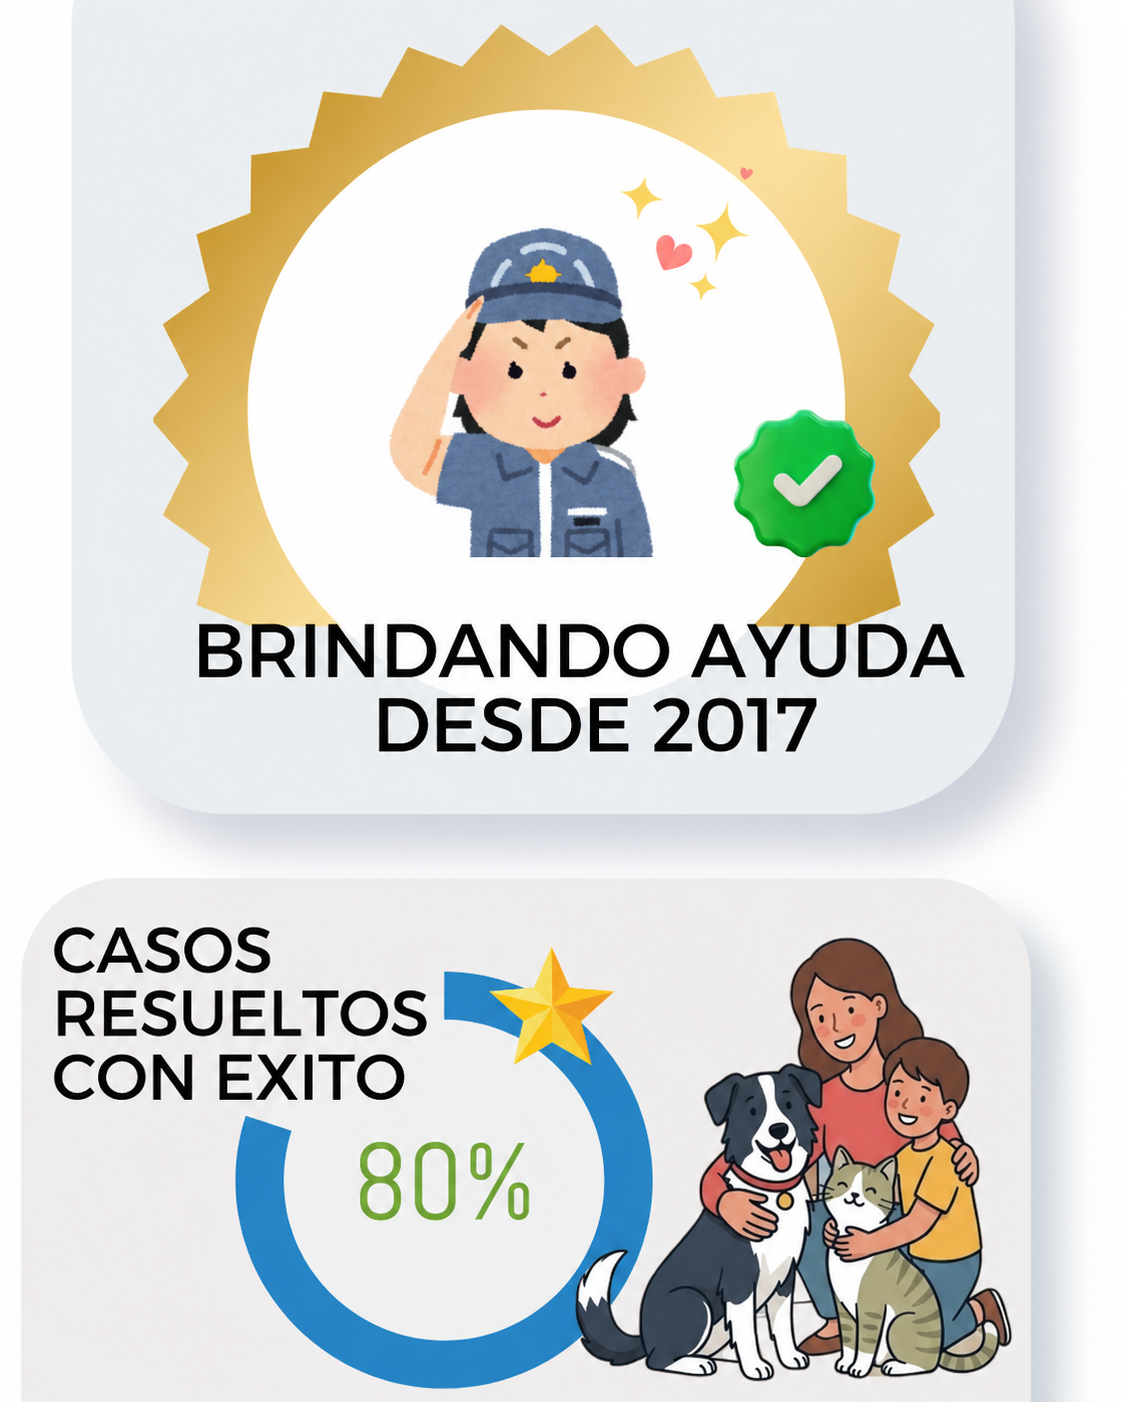
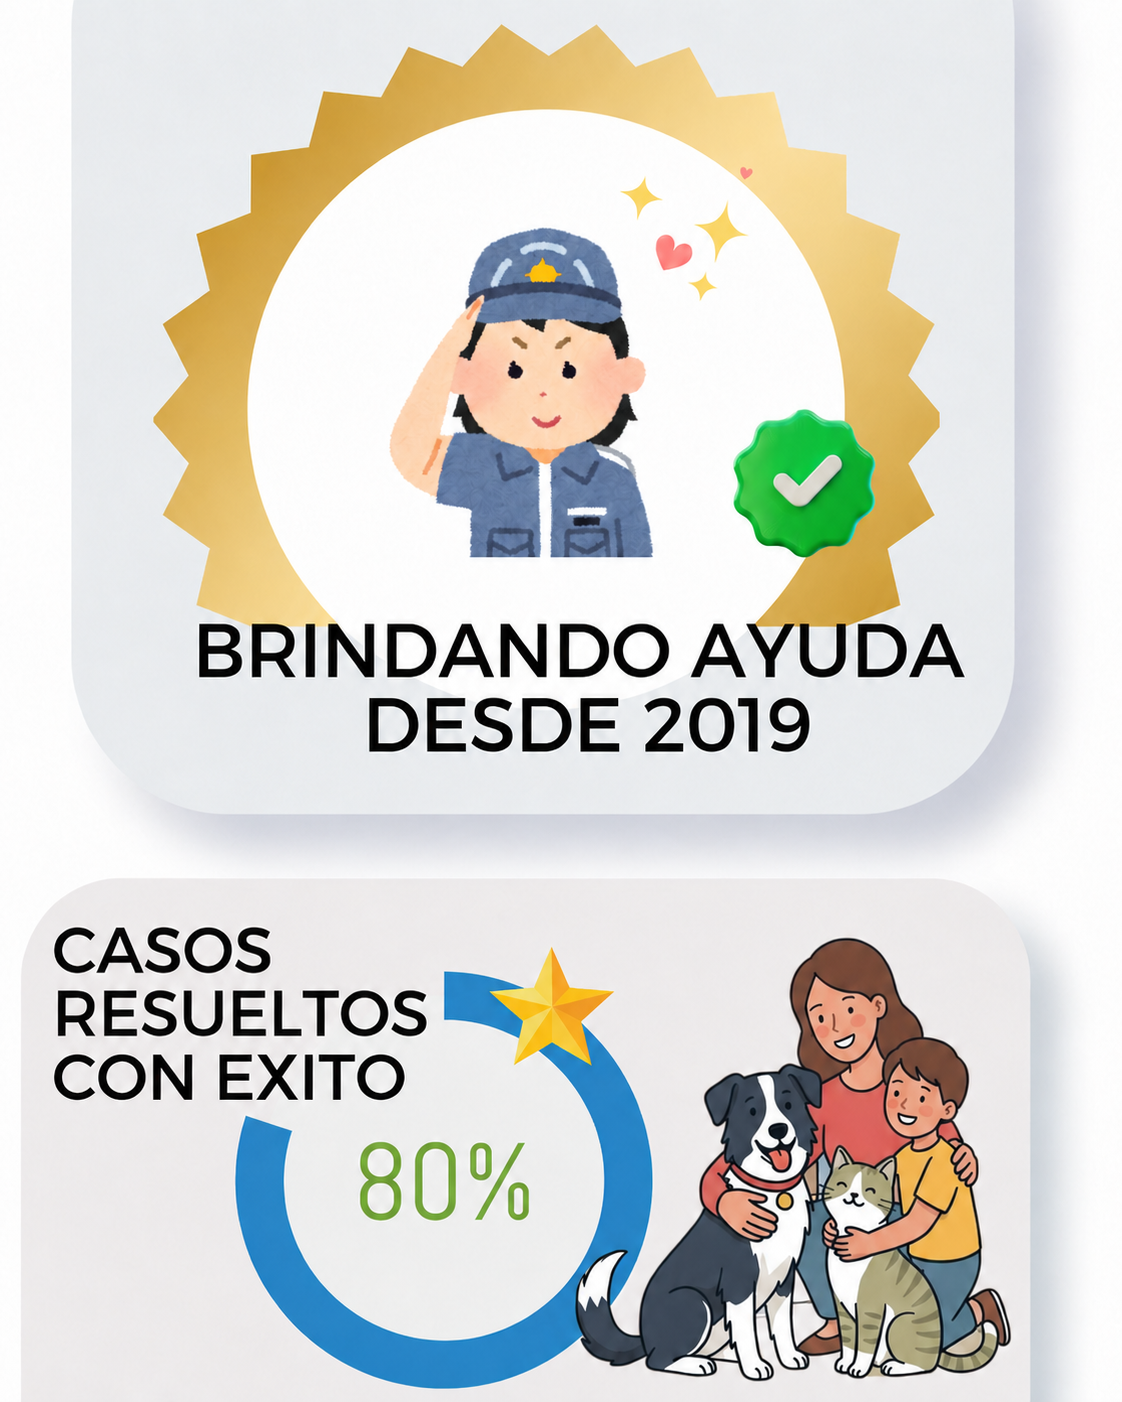
[ADD] testimoial

diff --git a/frontend/src/features/landing/components/landingPage/FrecuentlyAsked.tsx b/frontend/src/features/landing/components/landingPage/FrecuentlyAsked.tsx
@@ -6,17 +6,32 @@ const faqs = [
   {
     question: '¿Cómo trabajamos?',
     answer:
-      'Recopilamos la información de tu mascota y utilizamos herramientas para ayudar a encontrar coincidencias y difundirla.',
+      'Recopilamos los datos de tu mascota y la difundimos de forma masiva y estratégica en redes sociales, grupos comunitarios y nuestra red de contactos para maximizar las posibilidades de encontrarla.',
   },
   {
     question: '¿Por qué cobramos?',
     answer:
-      'El costo ayuda a mantener la plataforma, mejorar la visibilidad de las publicaciones y optimizar la búsqueda.',
+      'Invertimos en publicidad pagada, alcance masivo y herramientas profesionales para que tu búsqueda llegue a miles de personas. Un servicio serio requiere recursos reales.',
   },
   {
-    question: '¿Solo es para perros o gatos?',
+    question: '¿Funciona para perros, gatos u otras especies?',
     answer:
-      'No, puedes registrar cualquier tipo de mascota perdida o encontrada.',
+      'Sí. Adaptamos las estrategias dependiendo de la especie, personalidad de la mascota y circunstancias de la pérdida. También podemos ayudarte en casos de aves, conejos y otras mascotas, ajustando la difusión y las recomendaciones según cada situación.',
+  },
+  {
+    question: '¿En cuánto tiempo pueden encontrar a mi mascota?',
+    answer:
+      'Cada caso es diferente, por lo que no existe un tiempo exacto para localizar a una mascota. Algunas aparecen en pocas horas y otras pueden tomar más tiempo. Lo importante es actuar rápido, mantener una búsqueda constante y aumentar la difusión desde el inicio para mejorar las probabilidades de encontrarla.',
+  },
+  {
+    question: '¿En qué ciudades operan?',
+    answer:
+      'Nuestro servicio es completamente digital, por lo que podemos ayudarte en distintas ciudades y países. La difusión se adapta estratégicamente a la zona donde se perdió tu mascota mediante anuncios geolocalizados y redes sociales.',
+  },
+  {
+    question: '¿Pueden garantizar que encontrarán a mi mascota?',
+    answer:
+      'No podemos garantizar el hallazgo, ya que cada caso depende de muchos factores. Sin embargo, nuestras estrategias ayudan a aumentar considerablemente las probabilidades de localización.',
   },
 ];
 
@@ -30,7 +45,7 @@ const FrecuentlyAsked = () => {
   };
 
   return (
-    <section className="bg-white overflow-hidden py-8 lg:py-16 color-grey-border-top">
+    <section className="bg-white overflow-hidden py-8 lg:py-16 ">
       <div className="w-5/6 mx-auto">
         <div className="text-center mb-6 lg:mb-10">
           <Text as="h2" variant="h2" weight="medium">

diff --git a/frontend/src/features/landing/components/landingPage/HeroSection.tsx b/frontend/src/features/landing/components/landingPage/HeroSection.tsx
@@ -24,17 +24,15 @@ const HeroSection = () => {
               weight="medium"
               className="mb-4 lg:mb-6 w-5/6 md:w-4/5 lg:w-full mx-auto"
             >
-              Te ayudamos a buscar a tu mascota.
+              ¿Perdiste a tu mascota? Nosotros sabemos cómo encontrarla.
             </Text>
             <Text
               variant="body"
               weight="regular"
               className="mb-8 lg:mb-1 w-5/6 md:w-4/5 lg:w-full mx-auto"
             >
-              El tiempo es clave y cada minuto puede marcar la diferencia. No
-              tienes que pasar por esto solo. Vamos a difundir su búsqueda de
-              forma estratégica para aumentar las posibilidades de encontrarla
-              lo antes posible.
+              Cada minuto cuenta y no estás solo. Actuamos rápido y
+              estratégicamente para que puedas volver a abrazar a tu mascota.
             </Text>
 
             <div className="w-5/6 md:w-4/5 lg:w-full lg:max-w-4xl xl:max-w-5xl mx-auto flex flex-col py-4 gap-4 sm:flex-row items-center justify-center">

diff --git a/frontend/src/features/users/components/PetReportForm.tsx b/frontend/src/features/users/components/PetReportForm.tsx
@@ -19,7 +19,10 @@ export const PetReportForm: React.FC<PetReportFormProps> = ({
     usePetReportForm(initialData);
 
   return (
-    <div id="report-section" className="min-h-screen pt-8 mb-10 bg-white">
+    <div
+      id="report-section"
+      className="min-h-screen pt-8 mb-10 bg-white color-grey-border-top"
+    >
       <div className="w-full max-w-lg mx-auto flex flex-col gap-8">
         {/* Section 1: General pet data */}
         <div id="user-info-section">

diff --git a/frontend/src/pages/LandingPage.tsx b/frontend/src/pages/LandingPage.tsx
@@ -18,9 +18,9 @@ const LandingPage = () => {
         <PublicationSection />
         <PlansSection />
         <ServicesSection />
+        <PetReportForm />
         <TestimonialsSection />
         <PetInfoSection />
-        <PetReportForm />
         <FrecuentlyAsked />
       </main>
       <Footer />

diff --git a/frontend/src/shared/components/layout/Header.tsx b/frontend/src/shared/components/layout/Header.tsx
@@ -23,10 +23,10 @@ import SignIn from '../ui/Button/SignIn';
 
 const defaultNavLinks = [
   { label: 'Inicio', href: '/', icon: <LuHouse /> },
+  { label: 'Mascotas', href: '/mascotas-encontradas', icon: <PiDogLight /> },
   { label: 'Blog', href: '/blog', icon: <TfiWrite /> },
   { label: 'Talleres', href: '/talleres', icon: <LiaToolsSolid /> },
   { label: 'Manuales', href: '/manuales', icon: <IoBookOutline /> },
-  { label: 'Mascotas', href: '/mascotas-encontradas', icon: <PiDogLight /> },
 ];
 
 export const defaultSocialLinks = [